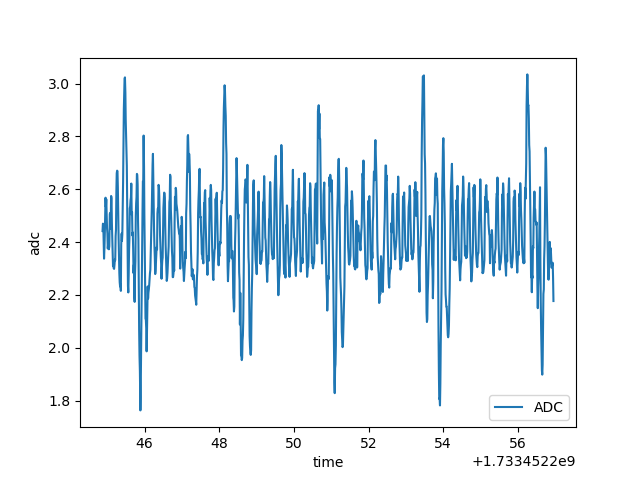
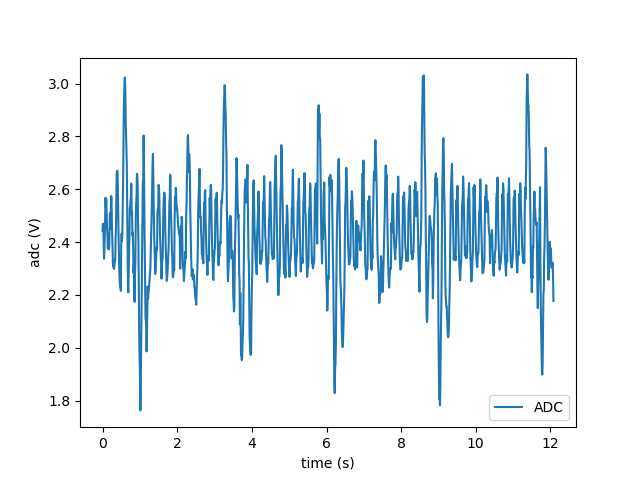
100 sampling rate

diff --git a/proj3/ppg_fft.py b/proj3/ppg_fft.py
@@ -25,6 +25,7 @@ def fft(signal,_fft_size,f_sampling):
 
 adc = np.load('ppg.npz', allow_pickle=True)['arr_0'].item()['adc'][100:]
 time = np.load('ppg.npz', allow_pickle=True)['arr_0'].item()['time'][100:]
+time = time - time[0]
 
 time_diffs = np.diff(time) 
 sampling_rates = 1 / time_diffs  
@@ -34,14 +35,15 @@ print(f"Average Sampling Rate: {avg_sampling_rate:.2f} Hz")
 
 plt.clf()
 plt.plot(time, adc, label="ADC")
-plt.xlabel('time')
-plt.ylabel('adc')
+plt.xlabel('time (s)')
+plt.ylabel('adc (V)')
 plt.legend()
 plt.savefig("adc.png")
 
-freq, adc_fft = fft(adc, 4096, avg_sampling_rate)
+freq, adc_fft = fft(adc, 4096, 100)
 
 plt.clf()
 plt.plot(freq, 20 * np.log10(adc_fft+1e-10))
-plt.xlim([0,5])
+plt.xlim([0,10])
+plt.xlabel('freq (Hz)')
 plt.savefig('fft.png')
